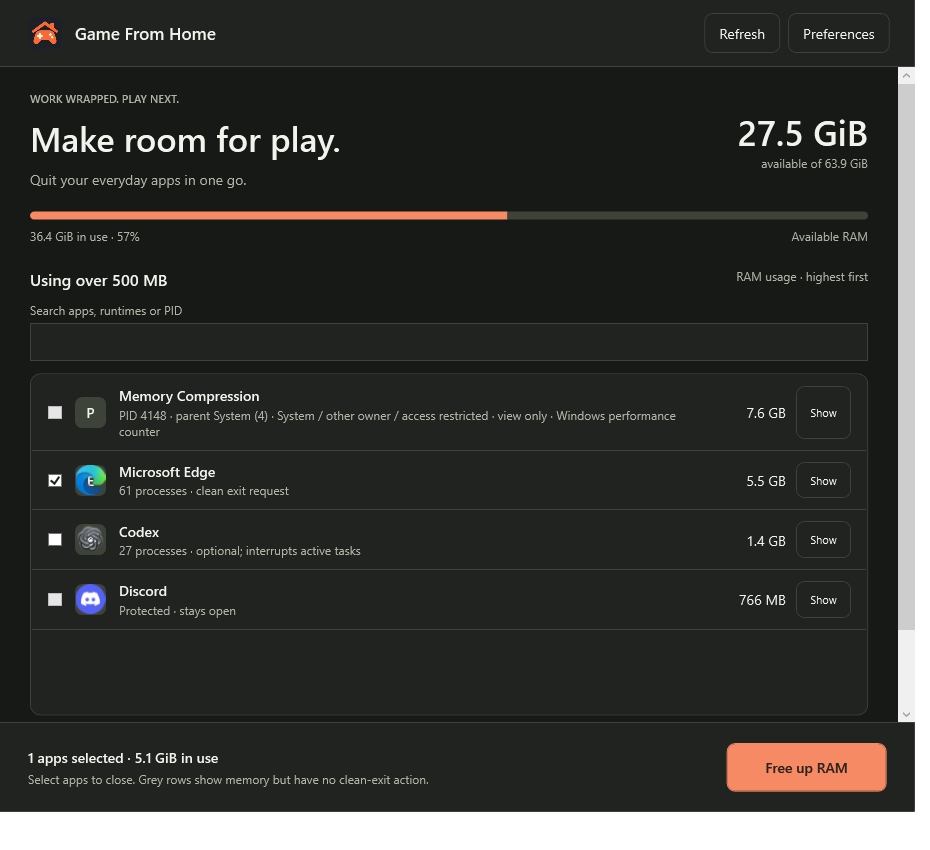
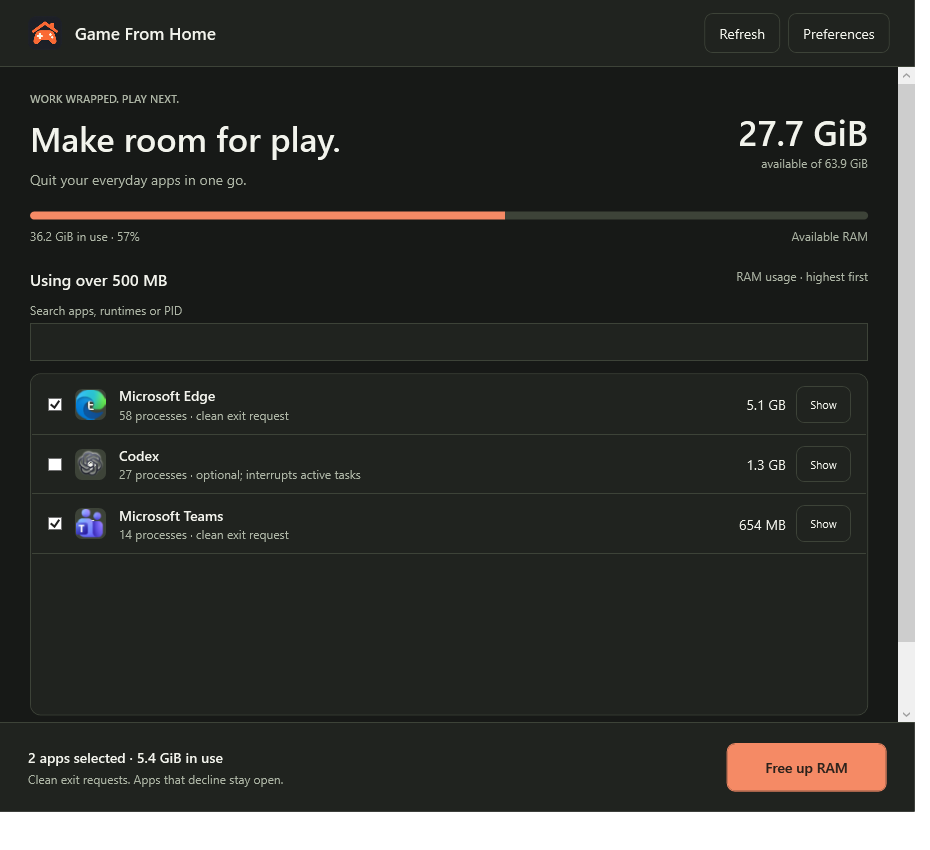
Hide non-closable processes from the cleanup list

diff --git a/src/GameFromHome/MainWindow.xaml b/src/GameFromHome/MainWindow.xaml
@@ -14,10 +14,10 @@
     <DockPanel Margin="0,0,0,12"><TextBlock x:Name="ListTitle" Text="Using over 500 MB" FontSize="16" FontWeight="SemiBold"/><TextBlock Text="RAM usage · highest first" DockPanel.Dock="Right" HorizontalAlignment="Right" Foreground="{DynamicResource MutedBrush}" FontSize="12"/></DockPanel>
     <TextBlock Text="Search apps, runtimes or PID" FontSize="12" Foreground="{DynamicResource MutedBrush}" Margin="0,0,0,5"/>
     <TextBox x:Name="SearchBox" ToolTip="Search by app, runtime, parent, PID or executable path" TextChanged="SearchChanged" Margin="0,0,0,12" Padding="9" Background="{DynamicResource PanelBrush}" Foreground="{DynamicResource TextBrush}" BorderBrush="{DynamicResource LineBrush}" AutomationProperties.Name="Search processes"/>
-    <TextBlock x:Name="EmptyText" Text="No apps or background processes are using over 500 MB." Visibility="Collapsed" Foreground="{DynamicResource MutedBrush}" Margin="0,20"/>
+    <TextBlock x:Name="EmptyText" Text="No closable apps are using over 500 MB." Visibility="Collapsed" Foreground="{DynamicResource MutedBrush}" Margin="0,20"/>
     <Border BorderBrush="{DynamicResource LineBrush}" BorderThickness="1" Background="{DynamicResource PanelBrush}" CornerRadius="10"><ListBox x:Name="AppList" Height="340" Background="Transparent" BorderThickness="0" Foreground="{DynamicResource TextBrush}" ScrollViewer.HorizontalScrollBarVisibility="Disabled" ScrollViewer.CanContentScroll="True" VirtualizingPanel.IsVirtualizing="True" VirtualizingPanel.VirtualizationMode="Recycling"><ListBox.ItemContainerStyle><Style TargetType="ListBoxItem"><Setter Property="HorizontalContentAlignment" Value="Stretch"/><Setter Property="Padding" Value="0"/><Setter Property="Template"><Setter.Value><ControlTemplate TargetType="ListBoxItem"><ContentPresenter/></ControlTemplate></Setter.Value></Setter></Style></ListBox.ItemContainerStyle><ListBox.ItemTemplate><DataTemplate><Border BorderBrush="{DynamicResource LineBrush}" BorderThickness="0,0,0,1" Padding="15,11" ToolTip="{Binding Details}"><Grid><Grid.ColumnDefinitions><ColumnDefinition Width="28"/><ColumnDefinition Width="44"/><ColumnDefinition Width="*"/><ColumnDefinition Width="105"/><ColumnDefinition Width="55"/></Grid.ColumnDefinitions><CheckBox IsChecked="{Binding Selected, Mode=TwoWay}" IsEnabled="{Binding CanSelect}" VerticalAlignment="Center" AutomationProperties.Name="{Binding AccessibleName}"/><Border Grid.Column="1" Width="31" Height="31" HorizontalAlignment="Left" CornerRadius="7" Background="{DynamicResource LineBrush}" VerticalAlignment="Center"><Grid><TextBlock Text="{Binding Initials}" HorizontalAlignment="Center" VerticalAlignment="Center" FontWeight="SemiBold"/><Image Source="{Binding AppIcon}" Width="30" Height="30"/></Grid></Border><StackPanel Grid.Column="2" VerticalAlignment="Center"><TextBlock Text="{Binding Name}" FontWeight="SemiBold"/><TextBlock Text="{Binding Status}" Foreground="{Binding StatusBrush}" TextWrapping="Wrap" FontSize="12" Margin="0,2,0,0"/></StackPanel><TextBlock Grid.Column="3" Text="{Binding MemoryText}" HorizontalAlignment="Right" VerticalAlignment="Center" Margin="0,0,10,0"/><Button Grid.Column="4" Content="Show" Padding="6,4" MinHeight="29" FontSize="11" Click="ShowAppClick" ToolTip="Show this app if it has an open window"/></Grid></Border></DataTemplate></ListBox.ItemTemplate></ListBox></Border>
     <TextBlock x:Name="ProtectedText" Text="Discord is always protected. Codex is optional and closes last." Foreground="{DynamicResource MutedBrush}" FontSize="12" Margin="0,17,0,0"/>
-    <TextBlock x:Name="MethodText" Text="Only entries using over 500 MB are shown. App processes are grouped before applying the threshold. Grey rows need an app-specific exit method. Drivers, caches and inaccessible memory are reflected in the system total, not attributed to apps." Foreground="{DynamicResource MutedBrush}" FontSize="12" Margin="0,12,0,0"/>
+    <TextBlock x:Name="MethodText" Text="Only apps using over 500 MB with a supported clean-exit method are shown. App processes are grouped before applying the threshold." Foreground="{DynamicResource MutedBrush}" FontSize="12" Margin="0,12,0,0"/>
    </StackPanel>
   </ScrollViewer>
   <Border Grid.Row="2" Background="{DynamicResource PanelBrush}" BorderBrush="{DynamicResource LineBrush}" BorderThickness="0,1,0,0" Padding="28,20"><Grid><Grid.ColumnDefinitions><ColumnDefinition Width="*"/><ColumnDefinition Width="Auto"/><ColumnDefinition Width="Auto"/></Grid.ColumnDefinitions><StackPanel VerticalAlignment="Center" Margin="0,0,15,0"><TextBlock x:Name="Summary" Text="Finding apps…" FontWeight="SemiBold"/><TextBlock x:Name="SummaryNote" Text="Normal exits. No forced shutdowns." FontSize="12" Foreground="{DynamicResource MutedBrush}" Margin="0,4,0,0"/></StackPanel><Button x:Name="StopButton" Grid.Column="1" Content="Stop remaining" Visibility="Collapsed" Click="StopClick" Margin="0,0,10,0"/><Button x:Name="PrimaryButton" Grid.Column="2" Content="Free up RAM" Background="{DynamicResource AccentBrush}" Foreground="#2A211B" BorderBrush="{DynamicResource AccentBrush}" FontWeight="SemiBold" MinWidth="160" Padding="21,14" Click="PrimaryClick" IsEnabled="False"/></Grid></Border>

diff --git a/src/GameFromHome/MainWindow.xaml.cs b/src/GameFromHome/MainWindow.xaml.cs
@@ -52,7 +52,7 @@ public partial class MainWindow : Window
         try
         {
             var snapshots=await Task.Run(discovery.Scan);var memory=Discovery.ReadMemory();DisplayMemory(memory);
-            var visible=snapshots.Where(s=>s.Ram>MinimumVisibleRam).ToList();
+            var visible=snapshots.Where(s=>s.CanClose && s.Ram>MinimumVisibleRam).ToList();
             if(rebuild)
             {
                 rows.Clear(); foreach(var snap in visible)
@@ -75,9 +75,7 @@ public partial class MainWindow : Window
                 foreach(var snap in visible.Where(s=>rows.All(r=>r.Id!=s.Id))) {var row=new AppRow{Snapshot=snap,Selected=false,CanSelect=snap.CanClose};Populate(row);row.PropertyChanged+=RowChanged;rows.Add(row);}
             }
             EmptyText.Visibility=rows.Count==0?Visibility.Visible:Visibility.Collapsed;
-            var protectedApps=snapshots.Where(s=>s.Definition.Protected && s.Ram>MinimumVisibleRam).Select(s=>$"{s.Definition.Name} stays open · {(s.MemoryComplete?"":"at least ")}{Formatting.Ram(s.Ram)}");
-            ProtectedText.Text=string.Join("     •     ",protectedApps);
-            if(string.IsNullOrEmpty(ProtectedText.Text))ProtectedText.Text="Discord stays protected. Codex is optional and closes last when selected.";
+            ProtectedText.Text="Discord stays open. Codex closes last when selected.";
 
             CollectionViewSource.GetDefaultView(rows).Refresh();
             UpdateSummary();
@@ -107,7 +105,7 @@ public partial class MainWindow : Window
     {
         if(busy||finished)return;var selected=rows.Where(r=>r.Selected&&r.CanSelect).ToArray();
         Summary.Text=$"{selected.Length} apps selected · {Formatting.Ram(selected.Sum(r=>r.Snapshot.Ram))} in use";
-        SummaryNote.Text="Select apps to close. Grey rows show memory but have no clean-exit action.";PrimaryButton.IsEnabled=selected.Length>0;
+        SummaryNote.Text="Clean exit requests. Apps that decline stay open.";PrimaryButton.IsEnabled=selected.Length>0;
     }
     private void DisplayMemory(MemorySample sample)
     {

diff --git a/README.md b/README.md
@@ -1,7 +1,7 @@
 <p align="center"><img src="docs/assets/app-icon.png" width="112" alt="Game From Home icon"></p>
 <h1 align="center">Game From Home</h1>
 <p align="center"><strong>Make room for play.</strong><br>Clean app exits. More available RAM.</p>
-<p align="center"><a href="https://github.com/kmanan/game-from-home/releases/tag/v0.2.1">Download for Windows</a> · <a href="docs/ARCHITECTURE.md">How it works</a> · <a href="docs/SPEC.md">Product spec</a> · <a href="LICENSE">MIT license</a></p>
+<p align="center"><a href="https://github.com/kmanan/game-from-home/releases/tag/v0.2.2">Download for Windows</a> · <a href="docs/ARCHITECTURE.md">How it works</a> · <a href="docs/SPEC.md">Product spec</a> · <a href="LICENSE">MIT license</a></p>
 
 Game From Home is a small, on-demand Windows utility for the moment you want to stop working and start playing. See which everyday apps are using RAM, close a remembered selection with one button, and see the measured change in available memory.
 
@@ -11,7 +11,7 @@ Game From Home is a small, on-demand Windows utility for the moment you want to 
 
 ## What it does
 
-- Shows only apps and background/system entries using **more than 500 MB** (500,000,000 bytes), largest first. App processes are grouped before applying the threshold.
+- Shows only apps with a supported clean-exit method using **more than 500 MB** (500,000,000 bytes), largest first. App processes are grouped before applying the threshold.
 - Entries below the threshold are omitted from both the list and one-click cleanup, even if previously selected. Discovery still inspects the full process inventory to verify exits.
 - Search by name, runtime, parent process, PID, or executable path.
 - Uses a virtualized list so hundreds of processes do not require hundreds of rendered rows.
@@ -27,7 +27,7 @@ It does not manage game libraries, change priorities, stop drivers, purge caches
 
 ## Download and run
 
-Get **[GameFromHome-windows-x64.zip](https://github.com/kmanan/game-from-home/releases/download/v0.2.1/GameFromHome-windows-x64.zip)** from the [v0.2.1 release](https://github.com/kmanan/game-from-home/releases/tag/v0.2.1). Extract the complete folder and open `GameFromHome.exe`.
+Get **[GameFromHome-windows-x64.zip](https://github.com/kmanan/game-from-home/releases/download/v0.2.2/GameFromHome-windows-x64.zip)** from the [v0.2.2 release](https://github.com/kmanan/game-from-home/releases/tag/v0.2.2). Extract the complete folder and open `GameFromHome.exe`.
 
 This initial build requires **Windows x64 and the .NET 9 Desktop Runtime**. It has no installer, but it is not fully self-contained: companion files must stay together, and settings live in `%LOCALAPPDATA%\GameFromHome`. The runtime is available from [Microsoft](https://dotnet.microsoft.com/en-us/download/dotnet/9.0). This release is unsigned.
 
@@ -50,16 +50,16 @@ With no saved selection, this opens the review screen. Successful results can cl
 | Microsoft Edge, Teams, Zoom, Cursor | Known installation identities; cooperative Windows exit requests |
 | WhatsApp, ChatGPT, Claude | Known installation rules; more distribution/version coverage needed |
 | Codex | Selectable; unchecked until approved; closes last |
-| Discord | Visible, always protected |
+| Discord | Always protected; excluded from the cleanup list |
 | Other desktop apps with a visible window | Discovered automatically; opt-in cooperative exit |
 | claude-mem worker | Bun/Node worker identified from command, PID file, and same-user identity; app-specific shutdown |
-| Other Bun, Node, Python and background processes | Visible with RAM, PID and parent; read-only until a clean-exit method is supported |
-| System and service processes | Visible where Windows permits; read-only |
+| Other Bun, Node, Python and background processes | Excluded from the cleanup list unless a supported app-specific exit method is available |
+| System and service processes | Excluded from the cleanup list, including Memory Compression |
 | Drivers, kernel pools, caches, inaccessible memory | Included in overall system usage; not all attributable to individual rows |
 
-`ChatGPT.exe` inside a Codex package is identified as **Codex**. Generic Node, Bun, Python, shell, and WSL processes are visible, but are never selected just because of their names or because they descend from an editor. App-owned Codex runtime helpers are grouped through verified ancestry and the Codex installation path. A standalone Codex CLI remains a separate runtime. Hover a row for executable paths and process IDs.
+`ChatGPT.exe` inside a Codex package is identified as **Codex**. Generic Node, Bun, Python, shell, and WSL processes without a supported clean-exit method are excluded from the cleanup list. App-owned Codex runtime helpers are grouped through verified ancestry and the Codex installation path. A standalone Codex CLI remains a separate runtime. Hover a row for executable paths and process IDs.
 
-**v0.2.1 expands discovery beyond the original app list.** Controlled tests cover normal apps, hidden apps, vetoed shutdowns, protected identities, and remaining children. Individual versions of every third-party app have not been closed as part of validation. Each app controls how it handles Windows shutdown requests; Game From Home checks and reports the outcome. It does not provide universal session backup or restore.
+**v0.2.2 keeps the cleanup list focused on actionable apps over 500 MB.** Controlled tests cover normal apps, hidden apps, vetoed shutdowns, protected identities, and remaining children. Individual versions of every third-party app have not been closed as part of validation. Each app controls how it handles Windows shutdown requests; Game From Home checks and reports the outcome. It does not provide universal session backup or restore.
 
 ## How clean exit works
 
@@ -67,9 +67,9 @@ Windows Restart Manager is called with `flags = 0`. Exact process instances are 
 
 An app may decline or fail to finish. A five-second observation checks original process instances, tracked helpers, and relaunches. A closed window alone does not count as success.
 
-The claude-mem adapter supports the default `~/.claude-mem/worker.pid` profile and `worker-service.cjs` layout. It validates the PID/creation time, Bun/Node command, TCP listener ownership, and `/api/health` PID before POSTing `/api/admin/shutdown`. Redirects and proxies are disabled. Other versions or custom data directories remain visible as runtimes if not recognized. Hooks may start a stopped worker again. There is no force-kill fallback.
+The claude-mem adapter supports the default `~/.claude-mem/worker.pid` profile and `worker-service.cjs` layout. It validates the PID/creation time, Bun/Node command, TCP listener ownership, and `/api/health` PID before POSTing `/api/admin/shutdown`. Redirects and proxies are disabled. Other versions or custom data directories are excluded from cleanup if not recognized. Hooks may start a stopped worker again. There is no force-kill fallback.
 
-Per-app values are **private working set**, not private commit or summed shared working sets. Windows performance counters provide read-only memory values for processes such as Memory Compression when direct process inspection is unavailable; these refresh approximately every ten seconds. Unknown values say “Unknown”. The result is the signed difference between median available-memory samples. Other Windows activity can affect this change, so selected usage is not guaranteed savings.
+Per-app values are **private working set**, not private commit or summed shared working sets. Windows-managed and unsupported processes contribute to overall system usage but do not appear in the cleanup list. Full process discovery is retained internally for exit verification. The result is the signed difference between median available-memory samples. Other Windows activity can affect this change, so selected usage is not guaranteed savings.
 
 ## Build
 
@@ -80,7 +80,7 @@ The repository pins .NET SDK **9.0.318**. It uses C#, WPF, Win32 interop, and no
 ./build.ps1 -Test
 ```
 
-The second command runs the disposable Windows fixture suite. Teardown may terminate only a test-owned refusing fixture; production code has no force-kill path. The included CI template builds every project and runs checks that do not need interactive fixtures. It is not yet active in GitHub Actions. See [validation results](docs/VALIDATION.md). **35 regression checks passed** for this release.
+The second command runs the disposable Windows fixture suite. Teardown may terminate only a test-owned refusing fixture; production code has no force-kill path. The included CI template builds every project and runs checks that do not need interactive fixtures. It is not yet active in GitHub Actions. See [validation results](docs/VALIDATION.md). **35 regression checks passed** for the underlying v0.2.0 shutdown implementation; subsequent display-only changes are checked separately.
 
 ```text
 src/GameFromHome/           Native UI, icons, preferences, shortcuts

diff --git a/docs/ARCHITECTURE.md b/docs/ARCHITECTURE.md
@@ -1,14 +1,14 @@
-# Architecture — v0.2.1
+# Architecture — v0.2.2
 
-The WPF interface shows only entries above 500,000,000 bytes of private working set, sorted largest first. App grouping occurs before filtering. Below-threshold entries do not enter the selection or one-click cleanup; the cleanup verifier still receives the full discovered inventory. App row units are decimal MB/GB to match the threshold. Idle scans run every five seconds while visible. There is no resident service or global hotkey listener.
+The WPF interface shows only entries with `AppSnapshot.CanClose == true` above 500,000,000 bytes of private working set, sorted largest first. App grouping occurs before filtering. Below-threshold entries do not enter the selection or one-click cleanup; the cleanup verifier still receives the full discovered inventory. App row units are decimal MB/GB to match the threshold. Idle scans run every five seconds while visible. There is no resident service or global hotkey listener.
 
 ## Discovery and ownership
 
 Toolhelp enumerates process IDs and parents. Native inspection obtains creation time, executable path, session, user SID, and private working set. Known app rules group supported apps. Unknown desktop applications with visible top-level windows outside Windows system paths are offered for opt-in cooperative exit. Same-executable helpers and verified app-owned descendants are included. Every PID appears only once.
 
-Runtime executables are not swept into a desktop app merely by parentage. Codex-owned binaries under its installation/runtime directory are associated only through a verified Codex ancestor. Standalone or user-launched runtimes remain separately visible. Raw command lines are read transiently only for Bun/Node worker identification; they are not displayed, stored in profiles, or written to diagnostics.
+Runtime executables are not swept into a desktop app merely by parentage. Codex-owned binaries under its installation/runtime directory are associated only through a verified Codex ancestor. Standalone or user-launched runtimes remain separate internal entries and require a supported exit adapter to appear in the cleanup list. Raw command lines are read transiently only for Bun/Node worker identification; they are not displayed, stored in profiles, or written to diagnostics.
 
-Everything not grouped remains a process entry, visible when above the threshold. Other-user, service/system, inaccessible, and unadapted background processes are inspection-only. Windows performance counters supply private working set where direct inspection is unavailable; these values are cached for approximately ten seconds. Unknown memory stays unknown. Drivers and kernel pools cannot all be attributed to individual processes; the overall physical-memory counter remains the reference total.
+Everything not grouped remains an internal process entry. Protected, incomplete, and inspection-only entries are excluded from the cleanup list regardless of RAM usage. Other-user, service/system, inaccessible, and unadapted background processes are inspection-only. Windows performance counters supply private working set where direct inspection is unavailable; these values are cached for approximately ten seconds. Unknown memory stays unknown. Drivers and kernel pools cannot all be attributed to individual processes; the overall physical-memory counter remains the reference total.
 
 ## Selection and closure
 
@@ -16,7 +16,7 @@ Everything not grouped remains a process entry, visible when above the threshold
 
 Desktop exits use Windows Restart Manager with flags zero, registering exact PID plus creation time and no files/services. The affected scope must match and exclude console, service, Explorer, and critical types. Process instances are revalidated before the request, then original instances and rediscovery are observed afterward. Remaining helpers or relaunches prevent a false success.
 
-The claude-mem adapter reads the default per-user worker PID file. It requires a same-user Bun/Node process whose command identifies the claude-mem worker script, a matching listening TCP port owned by that process, and a matching health-response PID. It rechecks process identity and listener ownership immediately before the worker's own HTTP shutdown request. HTTP uses loopback only, no proxy, no redirects, bounded response size/time. No arbitrary commands, restart, or force-termination fallback run. Actual process exit is still verified. Custom data directories and unsupported layouts remain inspectable runtimes.
+The claude-mem adapter reads the default per-user worker PID file. It requires a same-user Bun/Node process whose command identifies the claude-mem worker script, a matching listening TCP port owned by that process, and a matching health-response PID. It rechecks process identity and listener ownership immediately before the worker's own HTTP shutdown request. HTTP uses loopback only, no proxy, no redirects, bounded response size/time. No arbitrary commands, restart, or force-termination fallback run. Actual process exit is still verified. Custom data directories and unsupported layouts remain internal inspection-only runtimes.
 
 ## Reporting and preferences
 

diff --git a/docs/VALIDATION.md b/docs/VALIDATION.md
@@ -1,3 +1,7 @@
+# v0.2.2 actionable-list verification
+
+The Release build passed with zero warnings/errors. The native screen was rendered with live process data and visually inspected: Edge, Codex, and Teams above 500 MB appeared; Memory Compression, Discord, and other non-closable entries did not. No user apps were closed during verification. The shutdown implementation is unchanged.
+
 # v0.2.1 threshold verification
 
 The build passed with zero warnings/errors. The native screen was inspected with live data: only four grouped entries above 500,000,000 bytes appeared; smaller entries were excluded from the selection. The shutdown implementation is unchanged from the 35-check v0.2.0 validation below.
